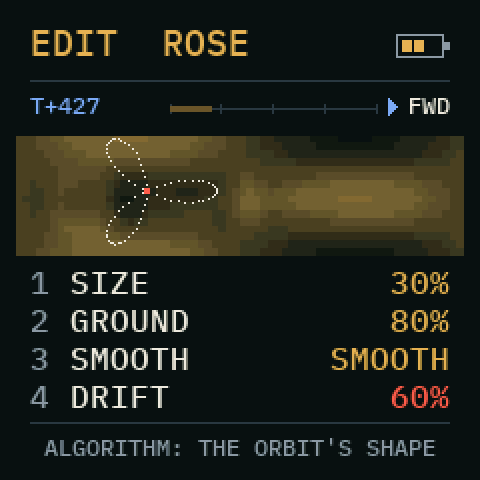
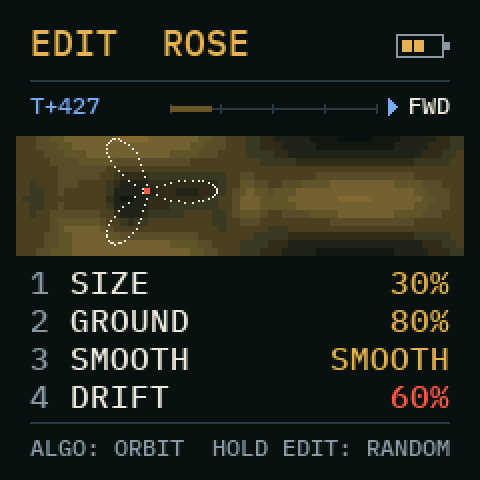
ANTHEM 0.1.4: hold EDIT on the EDIT page for a random sound
300 ms on EDIT (only from the EDIT page itself): a new orbit, EDIT, ENV and
LFO within musical ranges, once a hold. The colony, the map, the scale and FX
stay.

Claude-Session: https://claude.ai/code/session_01WXTHtg7P89JDZvM1Gy7H1M

diff --git a/firmware/src/dinghy.c b/firmware/src/dinghy.c
@@ -105,6 +105,7 @@ static void app_audio(int32_t *out, uint32_t frames)
 
 /* ---------------------------------------------------------------------------------------------- settings */
 #define DECAY_MAX 30u                           /* env_ms[30] = 10 s: the longest DECAY */
+#define RANDOM_MS 300u                          /* EDIT held this long on EDIT: a random sound */
 #define KEY0 53u                                /* key 0 = F3 */
 #define SET_VER 1u
 static struct { uint8_t ver, oct, ch, sync_int, tempo, pad[3]; } set = {SET_VER, 0, 0, 0, 96, {0}};
@@ -951,6 +952,29 @@ static void update_fx(void)
     hall_configure(pat.reverb != 0, 84, 40, pat.reverb);
 }
 
+/* Hold EDIT on the EDIT page: a random sound. The orbit, EDIT, ENV and LFO, each within a range that still sounds
+ * like an instrument (mostly short attacks, decays that ring, a gentle LFO); the colony, the map and FX stay. */
+static uint32_t dice = 0x6D2B79F5u;
+static uint32_t roll(uint32_t lo, uint32_t hi) { return lo + rnd_next(&dice) % (hi - lo + 1u); }
+
+static void sound_random(void)
+{
+    dice ^= fm1_ms * 2654435761u ^ (uint32_t)world_t;
+    pat.orbit = (uint8_t)roll(0, ORBITS - 1u);
+    pat.size = (uint8_t)roll(5, 35) * 2u;       /* 10 .. 70 % */
+    pat.ground = (uint8_t)roll(10, 50) * 2u;    /* 20 .. 100 % */
+    pat.smooth = (uint8_t)roll(0, 4);
+    pat.drift = (uint8_t)roll(0, 50) * 2u;
+    pat.attack = (uint8_t)(roll(0, 3) ? roll(0, 8) : roll(9, 18));   /* mostly 0 .. 100 ms, now and then up to 1 s */
+    pat.decay = (uint8_t)roll(10, DECAY_MAX);   /* 200 ms .. 10 s */
+    pat.accent = (uint8_t)roll(0, 40) * 2u;
+    pat.bloom = (uint8_t)roll(0, 40) * 2u;
+    pat.lfo_target = (uint8_t)roll(0, LFO_TARGETS - 1u);
+    pat.lfo_wave = (uint8_t)roll(0, LFO_WAVES - 1u);
+    pat.lfo_rate = (uint8_t)roll(0, 44);        /* 0.01 .. ~2 Hz */
+    pat.lfo_depth = (uint8_t)(pat.lfo_target == LFO_PITCH ? roll(0, 10) : roll(0, 30)) * 2u;
+}
+
 static uint8_t button_page(uint32_t button)
 {
     switch (button) {
@@ -1002,7 +1026,7 @@ static void draw_footer(uint8_t page)
         break;
     case P_SEQ: ui_footer("A CELL'S NOTE: ACROSS + UP", C_OFF); break;
     case P_ARP: ui_footer(arp.on ? "THE ANTS SING YOUR CHORD" : "ARP: PRESS AGAIN TO TURN ON", C_OFF); break;
-    case P_EDIT: ui_footer("ALGORITHM: THE ORBIT'S SHAPE", C_OFF); break;
+    case P_EDIT: ui_footer("ALGO: ORBIT  HOLD EDIT: RANDOM", C_OFF); break;
     case P_ENV: ui_footer("EVERY FOOTSTEP", C_OFF); break;
     case P_LFO: {
         static const char *const what[LFO_TARGETS] = {"THE ORBITS GROW AND SHRINK", "THE ORBITS SLIDE SIDEWAYS",
@@ -1083,7 +1107,8 @@ static void app_main(void)
     uint8_t page = P_HOME, drawn_page = 0xFF, key_on[27] = {0};
     uint32_t prev_keys = 0, drawn_state = 0, drawn_rows = 0, drawn_footer = ~0u, title_state = ~0u, drawn_line = ~0u;
     uint32_t flash_until[27] = {0}, off_at[16] = {0}, hatched_at = 0;
-    uint8_t off_note[16] = {0}, arp_was_page = 0;
+    uint8_t off_note[16] = {0}, arp_was_page = 0, edit_held = 0;
+    uint32_t edit_down = 0;
     static char msg[40];
 #if !BOARD_SMK37
     uint8_t battery_drawn = UINT8_MAX;
@@ -1123,6 +1148,7 @@ static void app_main(void)
                 uint8_t to = button_page(i);
                 if (to != 0xFF) {
                     if (i == BTN_ARP) arp_was_page = page == P_ARP;
+                    if (i == BTN_EDIT) { edit_held = page == P_EDIT; edit_down = now; }   /* (only from EDIT itself) */
                     page = to;
                 }
                 if (i == BTN_OCT_DOWN || i == BTN_OCT_UP) {
@@ -1153,6 +1179,13 @@ static void app_main(void)
                 live_panic();
                 say(arp.on ? "THE ANTS SING YOUR CHORD" : "THE ANTS SING THE MAP");
             }
+        }
+        /* EDIT held 300 ms on the EDIT page: a random sound (once a hold) */
+        if (edit_held && !(held_b >> BTN_EDIT & 1u)) edit_held = 0;
+        if (edit_held == 1u && page == P_EDIT && now - edit_down >= RANDOM_MS) {
+            edit_held = 2;
+            sound_random();
+            say("A RANDOM SOUND");
         }
         /* OCT- and OCT+ held together: time runs twice as fast, the way the first one pressed set */
         time_fast = page != P_GLO && (held_b >> BTN_OCT_DOWN & 1u) && (held_b >> BTN_OCT_UP & 1u);

diff --git a/tools/build.py b/tools/build.py
@@ -63,7 +63,7 @@ SCREEN_NAME = "ANTHEM"               # the update loader's screen (FM-1, ldr_scr
 SCREEN_COLOUR = 0xFAE9              # the ant's red, #FF5C48
 FM1_PRODUCT = "FM-1_582961"         # ANTHEM keeps this identity across releases (as PLUMB, BUOY, BEACHCOMBER, whywhywhy)
 PRODUCT = FM1_PRODUCT
-VERSION = "0.1.3"                     # APP_VER (a release build: --release X.Y)
+VERSION = "0.1.4"                     # APP_VER (a release build: --release X.Y)
 
 
 def toolchain():

diff --git a/docs/OPERATOR-MANUAL.md b/docs/OPERATOR-MANUAL.md
@@ -1,6 +1,6 @@
 # ANTHEM operator manual
 
-ANTHEM 0.1.3 for the M‑VAVE FM‑1. A colony of ants writes the music, and time runs both ways.
+ANTHEM 0.1.4 for the M‑VAVE FM‑1. A colony of ants writes the music, and time runs both ways.
 
 ## The idea in one minute
 
@@ -53,7 +53,7 @@ ANTHEM is silent at power-on: the ants wait until you press **PLAY**.
 | **OCT+** | **Time runs forwards.** Holding OCT−, press OCT+: **backwards, twice as fast**, as long as you hold both. (On the GLO page: the root an octave up) |
 | **REC** | **Hatch**: a new colony on the SEED, the ants back in their places, time back to 0 |
 | **SEL** | **Freeze**: the ants walk on but no longer paint. On a ground that does not change, their walk soon closes into a loop and the music repeats. SEL again: they paint again, and the music moves on |
-| **HOME, SEQ, ARP, EDIT, ENV, LFO, FX, GLO** | Their page. **ARP** pressed on the ARP page turns the chord on or off |
+| **HOME, SEQ, ARP, EDIT, ENV, LFO, FX, GLO** | Their page. **ARP** pressed on the ARP page turns the chord on or off. **EDIT held 300 ms on the EDIT page**: a random sound |
 | **SAVE** | Saves everything (the sound, the map, the scale **and the colony as it stands**) into the USER preset you are on, or the last one you used |
 | **SELECT** (encoder) | **Walks time by hand**: a step forward or back for each detent, playing or stopped. On the GLO page: the scale |
 | **ALGORITHM** (encoder) | The orbit's shape: CIRCLE, EIGHT, ROSE, DIAMOND, LINE |
@@ -113,6 +113,12 @@ landscape and, in white, the orbit of the first ant's next note.
 | 4 | **DRIFT** | 0 %: every orbit in the middle of the landscape. 100 %: centred where the ant stands, so each ant sounds like the ground under it |
 
 As the ants paint, the landscape changes, and so does the sound: slowly, never with a click.
+
+**A random sound: on the EDIT page, hold EDIT for 300 ms.** The orbit, the four EDIT knobs, ENV (ATTACK, DECAY,
+ACCENT, BLOOM) and the LFO (TARGET, WAVE, RATE, DEPTH) get new values, within ranges that still sound like an
+instrument: mostly short attacks, decays from 0.2 to 10 s, a gentle LFO. The colony, the map, the scale and FX stay as
+they are. Hold again for another; SAVE keeps one you like. (Only from the EDIT page itself: pressing EDIT elsewhere
+just opens it.)
 
 ## ENV: every footstep
 

diff --git a/README.md b/README.md
@@ -36,6 +36,7 @@ wrote). **OCT+** and they go forward again.
   an ORBIT over it (CIRCLE, EIGHT, ROSE, DIAMOND, LINE on ALGORITHM) at the note's frequency, and the heights it
   passes are the wave. DRIFT centres the orbit where the ant stands: **every ant sounds like the ground under its
   feet**, and as they paint, the timbre changes with the music. SIZE, GROUND (how high the paint stands), SMOOTH.
+  **Hold EDIT on the EDIT page: a random sound** (the orbit, EDIT, ENV and LFO).
 - **ENV is every footstep**: ATTACK, DECAY, ACCENT (the later colours louder), BLOOM (the orbit opens at each step).
 - **LFO, the wind**: SIZE, SHIFT (the orbits slide over the ground), PITCH or LEVEL.
 - **The ARP is a chord the ants sing**: hold keys and every cell's note goes to the nearest note of your chord (or
@@ -49,7 +50,7 @@ wrote). **OCT+** and they go forward again.
 
 [Read the operator manual](docs/OPERATOR-MANUAL.md) · [Credits and licenses](LICENSING.md) · [Changelog](CHANGELOG.md)
 
-**Version 0.1.3** builds as `anthem.fwsc` (a tagged release: `anthem-0.1.3.fwsc`). The host tests pass. It has **not yet
+**Version 0.1.4** builds as `anthem.fwsc` (a tagged release: `anthem-0.1.4.fwsc`). The host tests pass. It has **not yet
 been installed on a physical FM‑1**.
 
 ## Build

diff --git a/CHANGELOG.md b/CHANGELOG.md
@@ -1,5 +1,11 @@
 # Changelog
 
+## 0.1.4 – 2026-11-25
+
+- **A random sound: hold EDIT for 300 ms on the EDIT page.** The orbit, SIZE, GROUND, SMOOTH, DRIFT, the ENV and the LFO
+  get new values, within musical ranges (mostly short attacks, decays of 0.2 to 10 s, a gentle LFO). The colony, the
+  map, the scale and FX stay. Once a hold; only from the EDIT page itself. The EDIT page's hint says so.
+
 ## 0.1.3 – 2026-11-25
 
 - **The seed sings an octave up.** On the cells of the SEED's pattern (ONE DOT, DASHES, CROSS, RING, DUST, MOSS,
